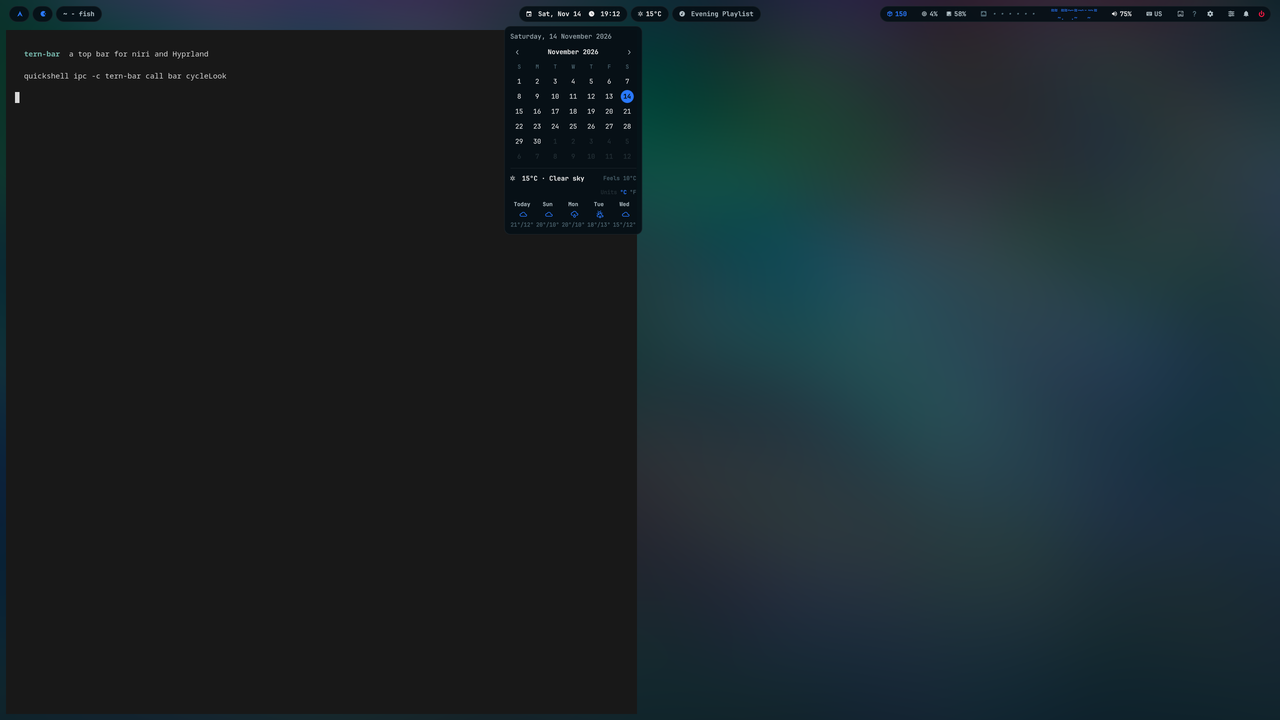
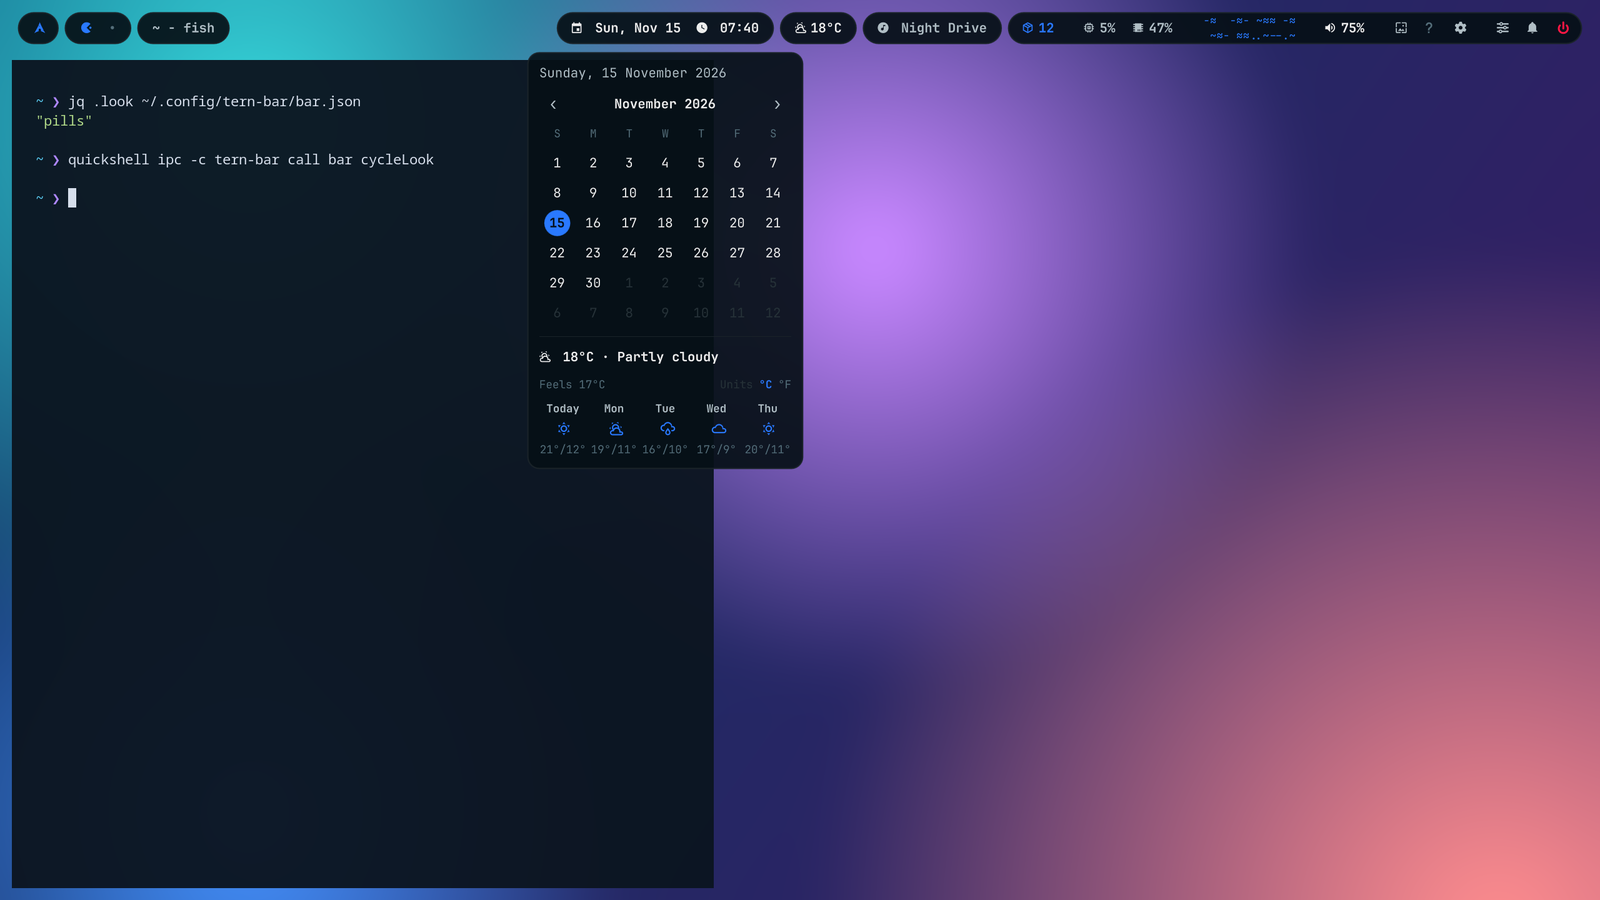
README: two pictures that show the difference between the looks
The two pictures of the looks were the same scene (a terminal on the left,
the calendar under the clock) on a dark wallpaper, and on GitHub, where
they are shown about 830 pixels wide, Tern Frame's 8 px border shrank to
under 3 px. They looked the same.

New pictures, from a fresh copy of main with an empty config in a nested
niri at 1600x900 (scale 1.6, so the bar is legible at that width), on a
brighter generated wallpaper:

- classic.png: floating pills, the calendar card under the clock, a
  terminal on the left.
- frame.png: the border around the screen, the launcher hanging from the
  top edge, the brightness tab in the bottom edge, a terminal on the right.
- bar.png: the three groups of pills, sharper.

The weather, the update count and the music are stand-ins
(TERN_BAR_WEATHER_MOCK, TERN_BAR_UPDATES_MOCK, a fake MPRIS player), so
no real location or package count is published, and the launcher lists
eight common apps. Each picture now has a line saying what to look for,
and the file list in "What's inside" is aligned. The three files are
726 KB together (were 356 KB, at a third of the resolution).

diff --git a/README.md b/README.md
@@ -6,13 +6,22 @@ small floating rounded "pills". **Tern Frame** draws a border around the whole s
 as its top edge and the popups as drawers that grow out of it. Both can follow your wallpaper's
 colors.
 
-![Classic Tern: floating pills](screenshots/classic.png)
+**Classic Tern**: floating pills, and each popup is a card under its pill (here the calendar, under
+the clock).
 
-![Tern Frame: a border around the screen, with the calendar drawer open](screenshots/frame.png)
+![Classic Tern: floating pills over the wallpaper, with the calendar card open under the clock](screenshots/classic.png)
+
+**Tern Frame**: a border around the whole screen with rounded inner corners. The launcher grows out
+of the top edge, and the brightness pop-up out of the bottom one.
+
+![Tern Frame: a dark border around the screen, the launcher hanging from its top edge and the brightness tab in its bottom edge](screenshots/frame.png)
 
 The pills up close:
 
-![the three groups of pills](screenshots/bar.png)
+![the three groups of pills: launcher, workspaces and window title; clock, weather and music; updates, CPU and memory, the ASCII animation, volume, tools and the system buttons](screenshots/bar.png)
+
+(The pictures were taken from a fresh copy with an empty config, on a 1600x900 screen; the weather,
+the update count and the music are stand-ins.)
 
 ## What you get
 
@@ -344,19 +353,19 @@ which part of the bar, edit `matugen/palette.json`.
 ## What's inside
 
 ```
-shell.qml        starts the bar on every screen
-components/      the bar and each of its pills, and the two looks' hosts (PillsHost, FrameHost)
-components/views/  what is inside each popup, shared by the Classic cards and the Frame drawers
-singletons/      shared pieces: theme, looks, settings, wallpaper, compositor connection (niri, Hyprland)
-shaders/         the Tern Frame shadows: GLSL sources and the compiled .qsb files the bar loads
-scripts/         helpers: wallpaper, colours, network status, IP hiding
-themes/          the ten built-in colour themes
-matugen/         an optional template, for driving the colours from your own matugen setup
-screenshots/     pictures for this page
-assets/ascii/    text frames for the ASCII pill and the launcher's empty state
-tests/           unit tests for the script libraries (node --test tests/)
-tools/ascii/     generator for those frames and for animated ASCII wallpapers (needs node)
-tools/bt-agent/  the Bluetooth pairing helper, in Rust (see Bluetooth above)
+shell.qml               starts the bar on every screen
+components/             the bar and each of its pills, and the two looks' hosts (PillsHost, FrameHost)
+components/views/       what is inside each popup, shared by the Classic cards and the Frame drawers
+singletons/             shared pieces: theme, looks, settings, wallpaper, compositor connection (niri, Hyprland)
+shaders/                the Tern Frame shadows: GLSL sources and the compiled .qsb files the bar loads
+scripts/                helpers: wallpaper, colours, network status, IP hiding
+themes/                 the ten built-in colour themes
+matugen/                an optional template, for driving the colours from your own matugen setup
+screenshots/            pictures for this page
+assets/ascii/           text frames for the ASCII pill and the launcher's empty state
+tests/                  unit tests for the script libraries (node --test tests/)
+tools/ascii/            generator for those frames and for animated ASCII wallpapers (needs node)
+tools/bt-agent/         the Bluetooth pairing helper, in Rust (see Bluetooth above)
 tools/build-shaders.sh  rebuilds the compiled shaders after a change to their sources
 ```
 
